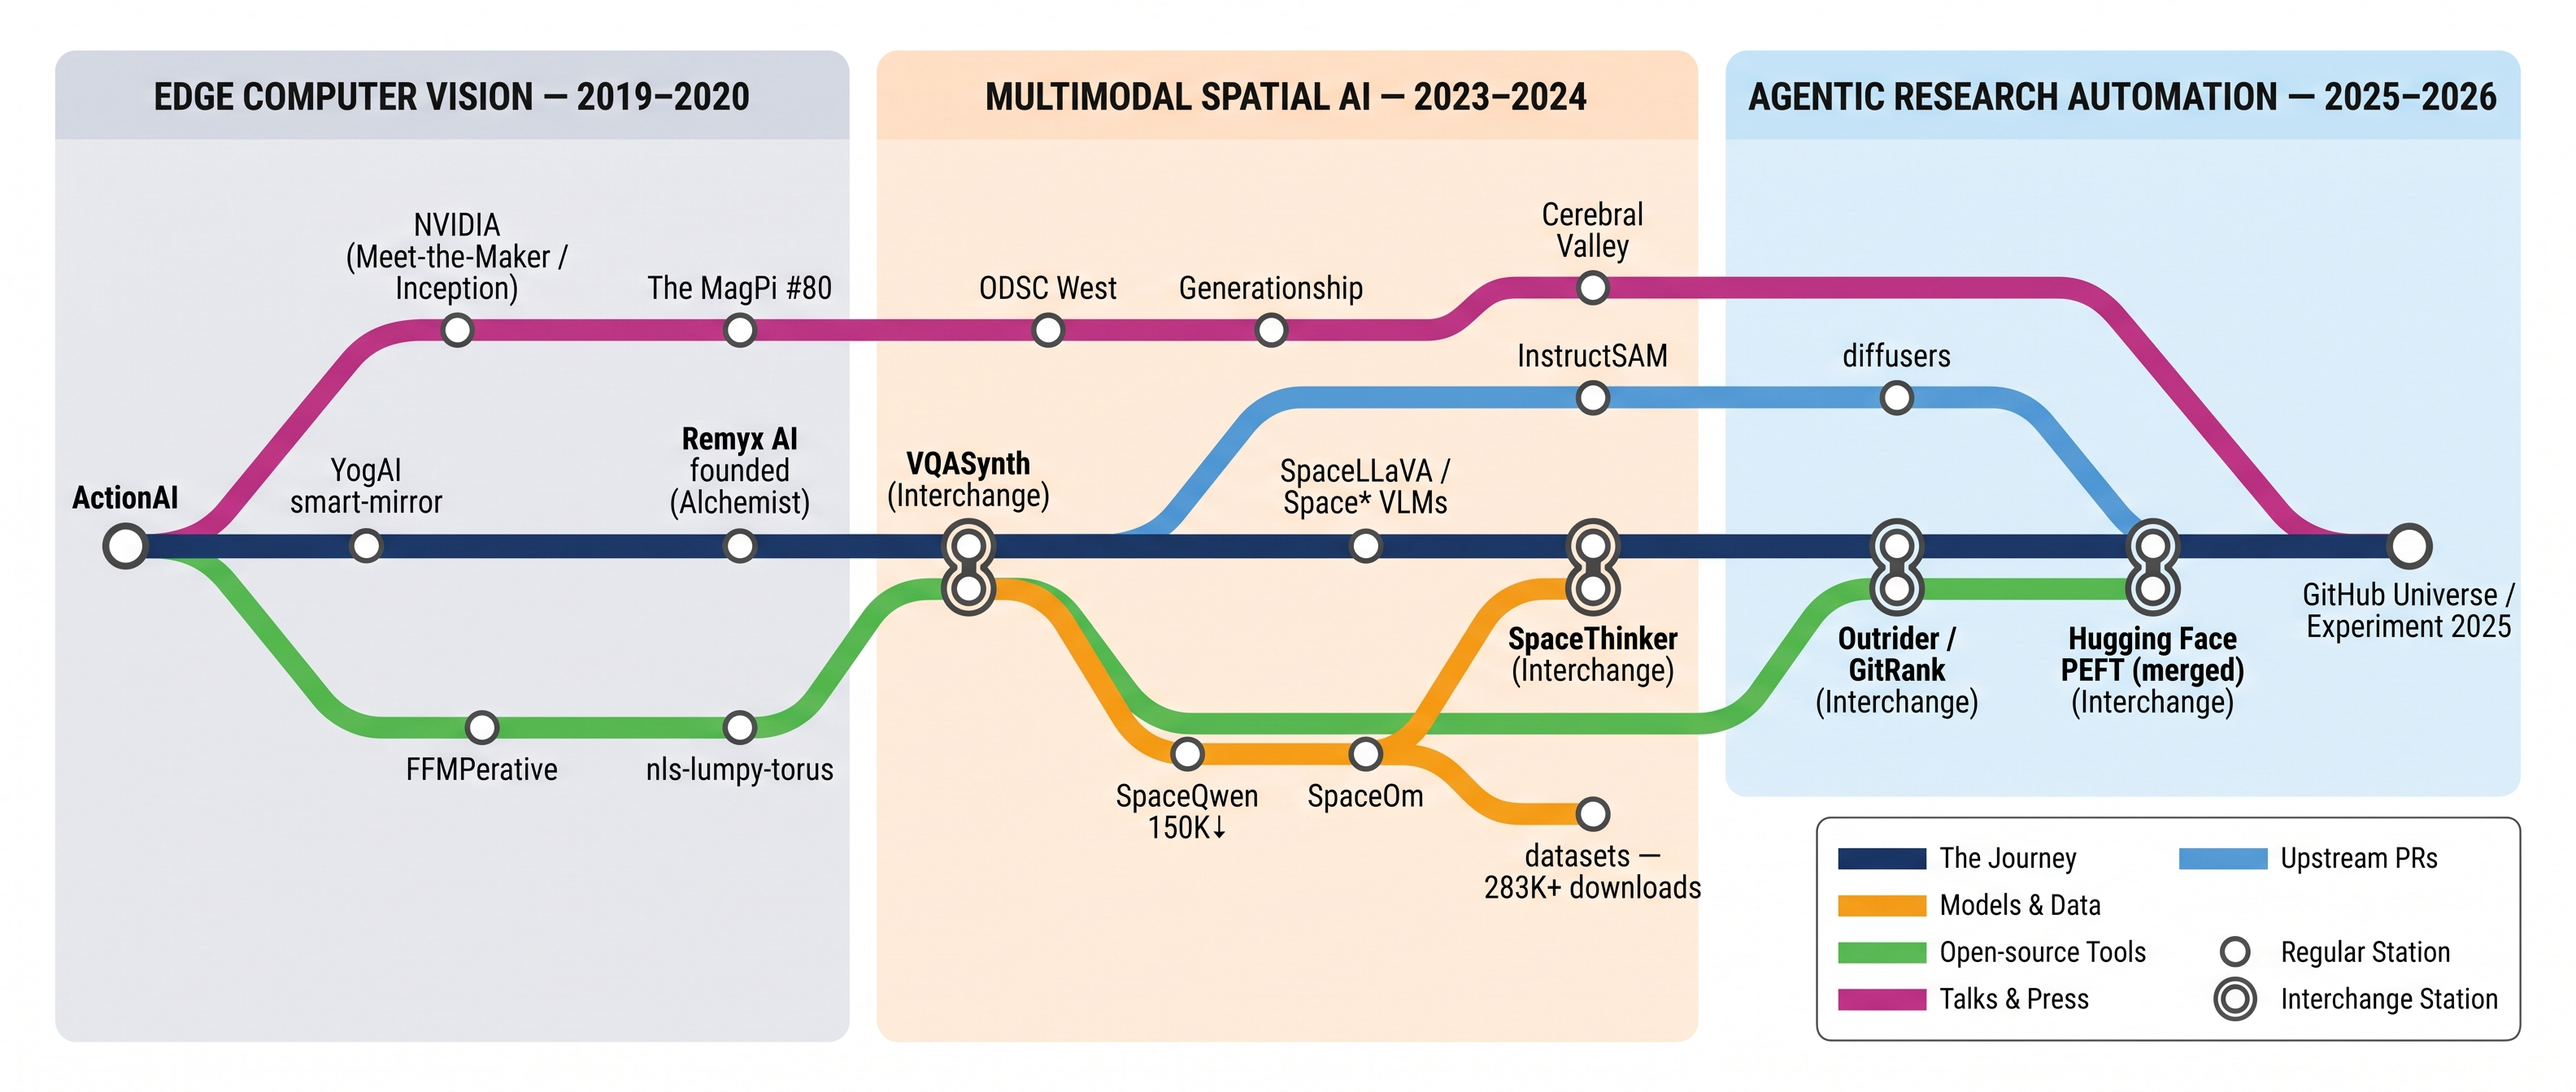
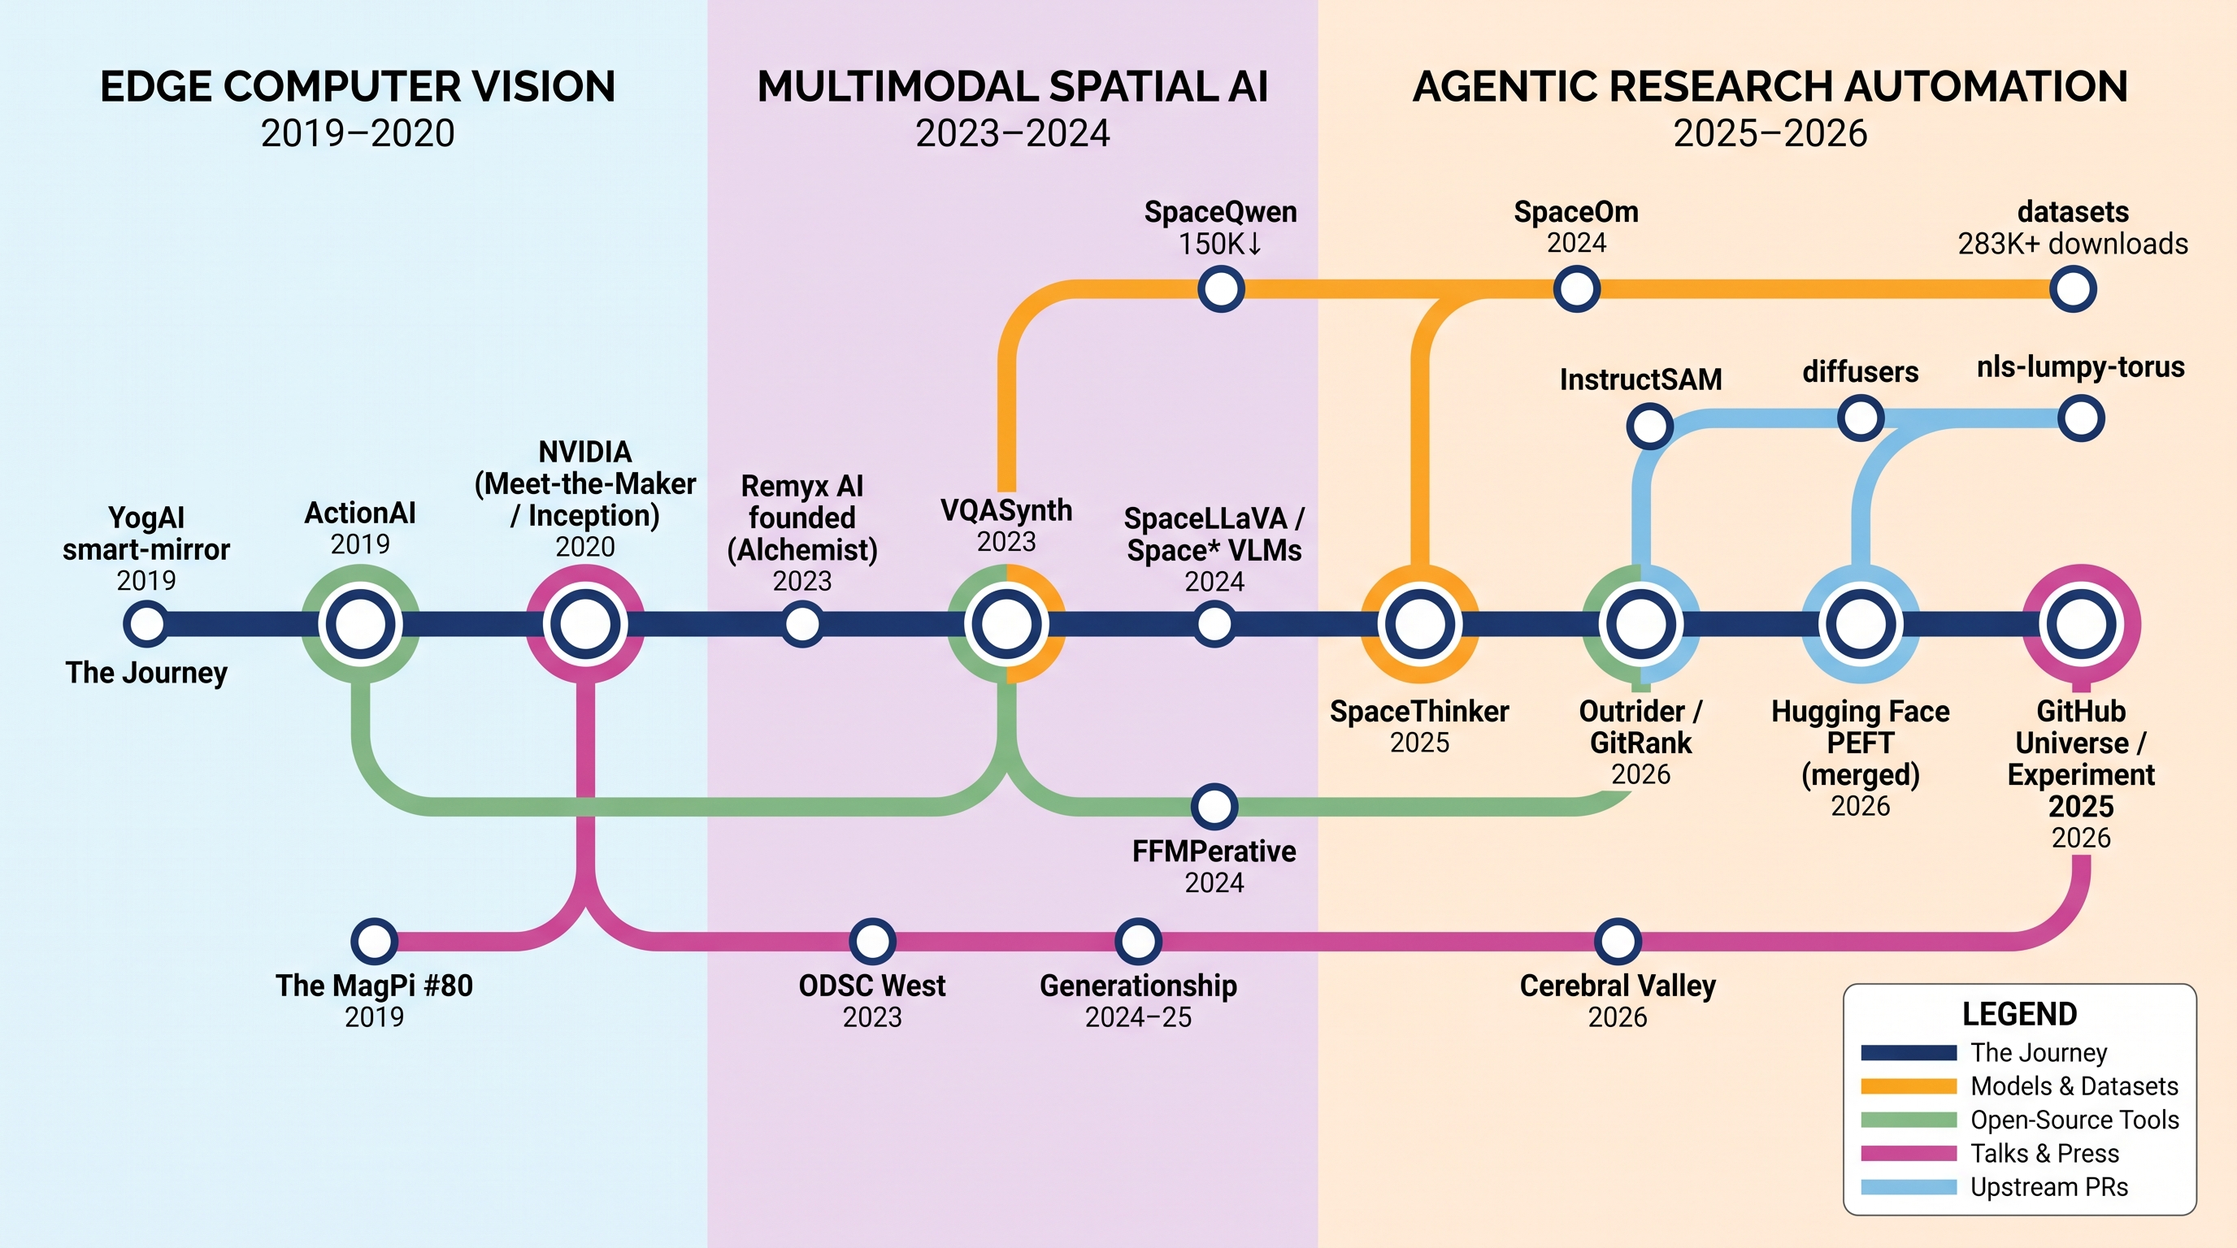
README: add "The engines" (VQASynth + Outrider pipelines), dedupe journey map
- Add an "engines" section featuring the VQASynth data pipeline and the Outrider
  brief-to-PR architecture diagrams (assets/outrider-pipeline.png)
- Regenerate the journey map (assets/journey.png): GitHub Universe + Outrider
  collapsed into single interchange stations, per-station year labels, corrected
  chronology (Remyx→2023, FFMPerative→Spatial, InstructSAM/Cerebral Valley→Agentic)
- Swap the flat lumpy-torus GIF for the mass-critical collapse render
- Link the "Automate Everything" agent-Spaces collection

diff --git a/README.md b/README.md
@@ -25,9 +25,19 @@ I build production ML across **spatial-reasoning VLMs**, **agentic research auto
 <table>
 <tr>
 <td width="50%"><img src="https://github.com/smellslikeml/ActionAI/raw/HEAD/assets/ActionAI_main.gif" width="100%"><br><sub><b>ActionAI</b> — real-time activity recognition from body keypoints, on the edge</sub></td>
-<td width="50%"><img src="https://github.com/smellslikeml/nls-lumpy-torus/raw/HEAD/nls_lumpy_torus.gif" width="100%"><br><sub><b>nls-lumpy-torus</b> — a spectral-geometry gallery for verification-grounded agent inference</sub></td>
+<td width="50%"><img src="https://github.com/smellslikeml/nls-lumpy-torus/raw/HEAD/nls_selftrap_collapse_torus.gif" width="100%"><br><sub><b>nls-lumpy-torus</b> — mass-critical collapse on a curved manifold, from the spectral-geometry gallery</sub></td>
 </tr>
 </table>
+
+## ⚙ The engines
+
+**[VQASynth](https://github.com/remyxai/VQASynth)** — the open pipeline that turns raw images into spatial-reasoning datasets: CLIP retrieval → RAM/LLaVA captions → GroundingDINO/CLIPSeg → SAM → ZoeDepth → RANSAC planes.
+
+<p align="center"><img src="https://github.com/remyxai/VQASynth/raw/HEAD/assets/VQASynth-diagram.png" width="100%"></p>
+
+**[Outrider](https://github.com/remyxai/outrider)** — brief-to-PR research automation: arXiv → rank & license-enrich → select & preflight gates → draft → fidelity / convention / test audits → PR, with automated + human refinement loops and full run telemetry.
+
+<p align="center"><img src="assets/outrider-pipeline.png" width="100%"></p>
 
 ## 🛰 Open models & datasets — spatial reasoning at scale
 Fine-tuned VLMs for quantitative **spatial reasoning** (distances, sizes, directions — for robotics & embodied AI) and the synthetic-data pipelines that train them.
@@ -49,6 +59,8 @@ Fine-tuned VLMs for quantitative **spatial reasoning** (distances, sizes, direct
 [![Outrider](https://img.shields.io/badge/GitHub%20Marketplace-Outrider-2088FF?style=flat-square&logo=githubactions&logoColor=white)](https://github.com/marketplace/actions/remyx-outrider) — a **brief-to-PR** research harness: scouts arXiv for a codebase and drafts *testable* implementations into existing call sites. ([demo ▶](https://www.youtube.com/watch?v=N_FNfZ71s2I))
 
 [![nls-lumpy-torus](https://img.shields.io/badge/gallery-nls--lumpy--torus-8a4fb0?style=flat-square&logo=github)](https://smellslikeml.github.io/nls-lumpy-torus/) — a spectral-geometry NLS/Gross–Pitaevskii solver + a gallery of numerical experiments (solitons, analog gravity & cosmology, quantum chaos, topological & Floquet transport), packaged as an **MCP toolkit for verification-grounded agent inference**.
+
+🧪 **[Automate Everything](https://huggingface.co/collections/remyxai/automate-everything)** — a collection of agent Spaces (video processing · data extraction · integer-programming optimization).
 
 ## 🔀 Upstream contributions
 Often drafted with **Outrider**, then verified and refined:
